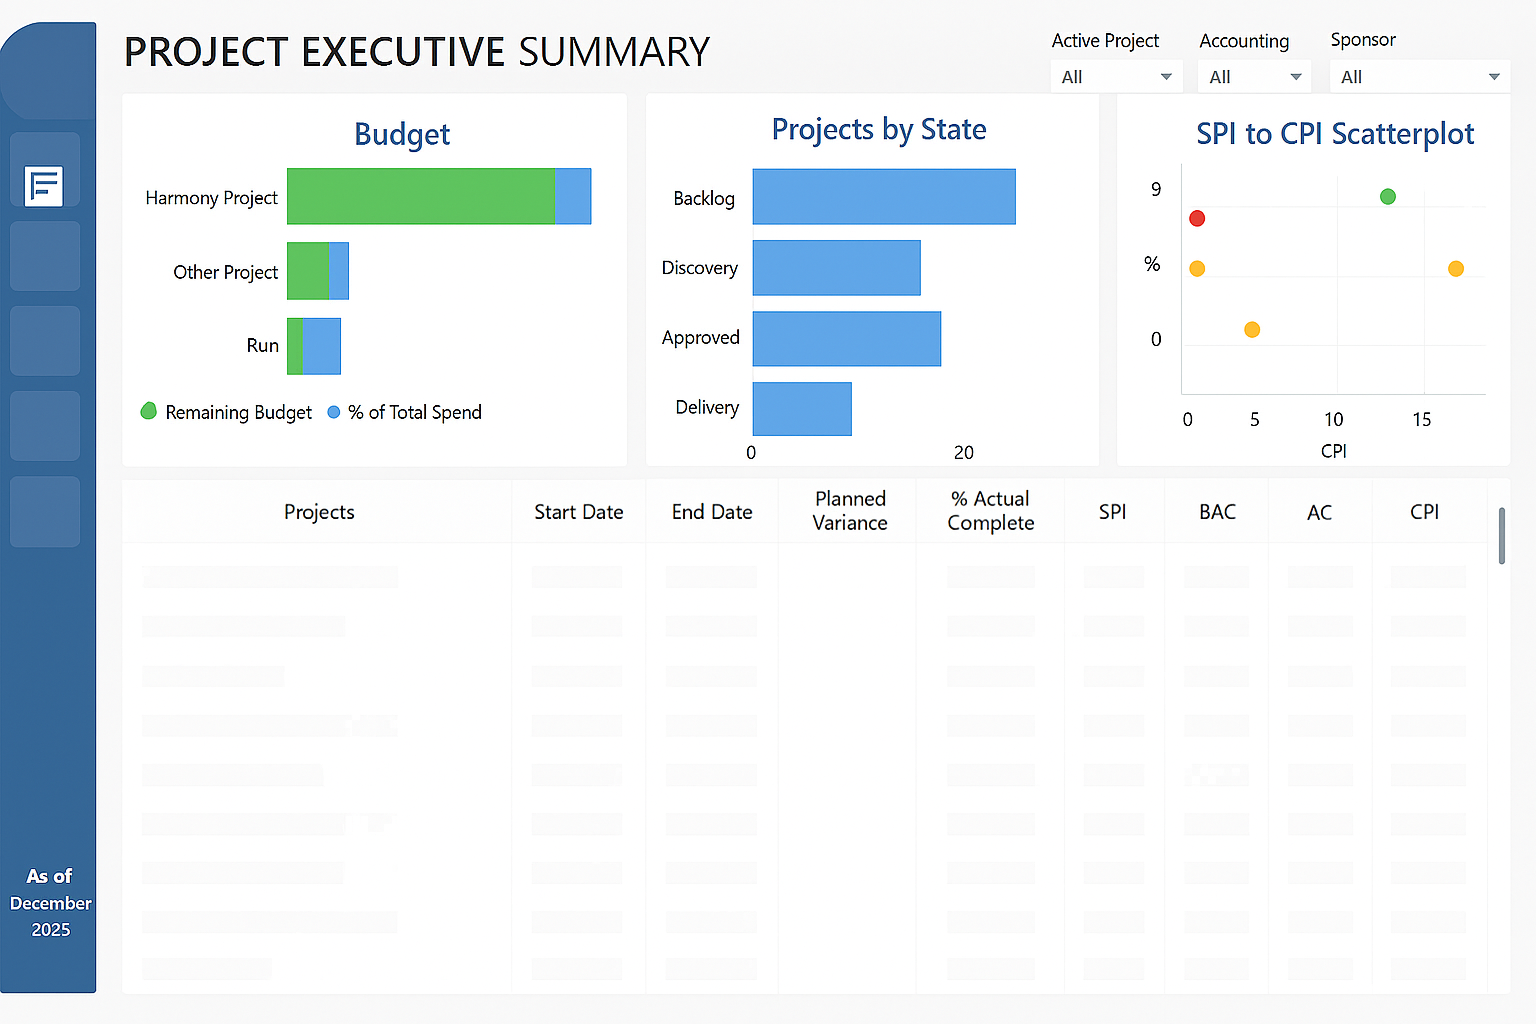
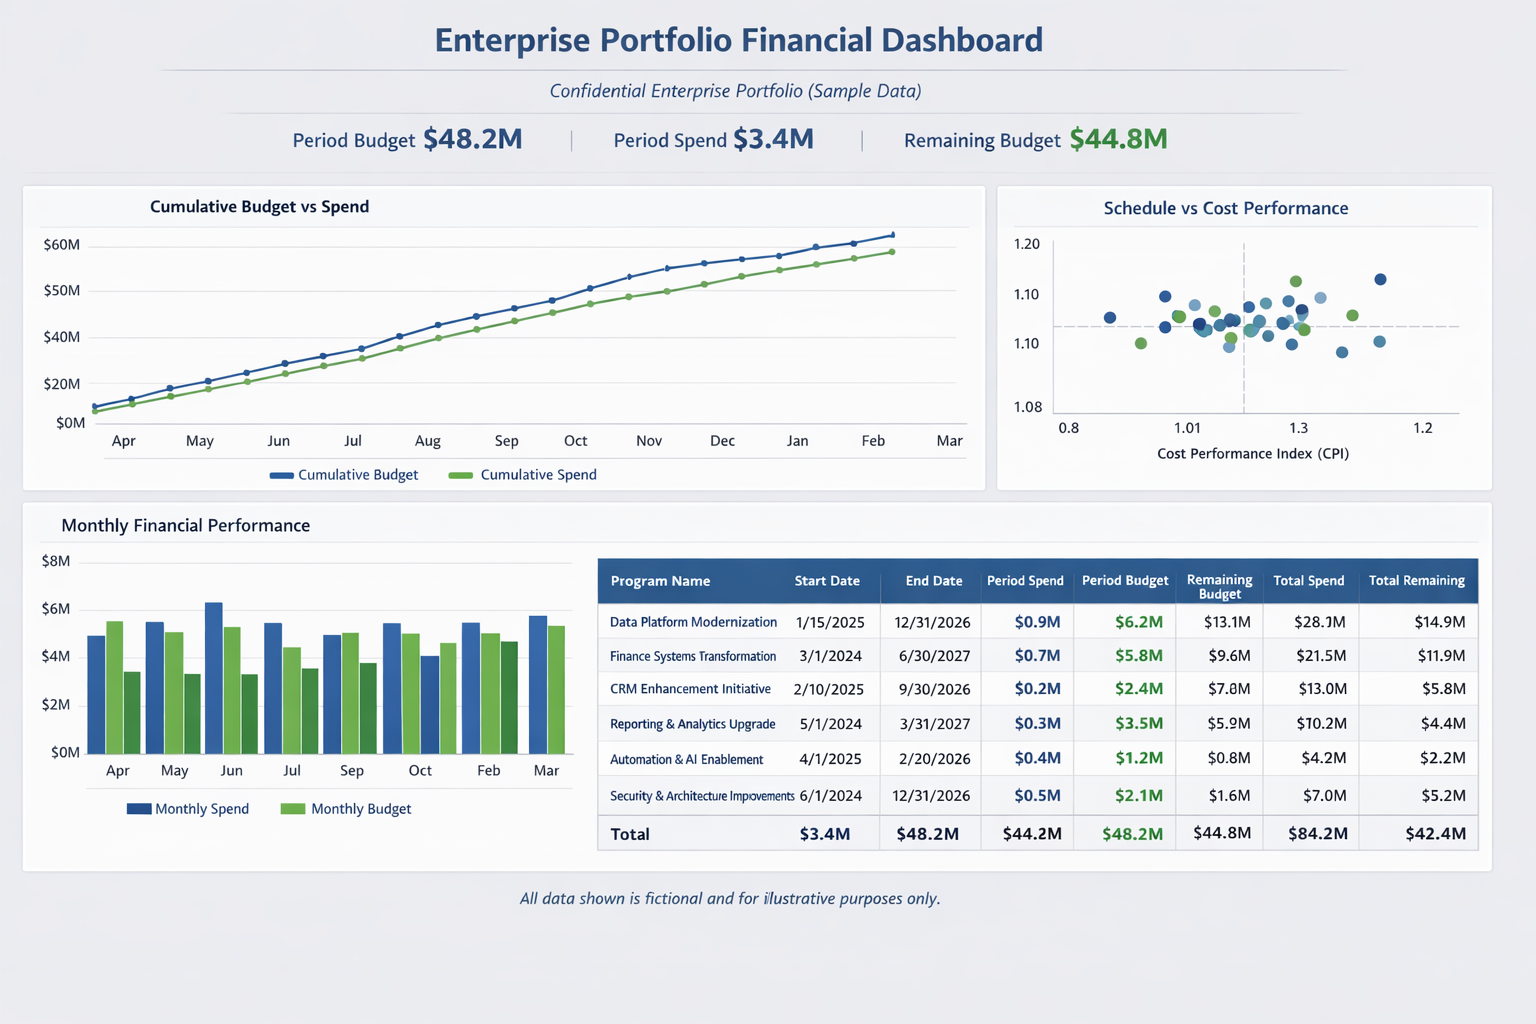
updated project3 png

diff --git a/index.html b/index.html
@@ -75,7 +75,7 @@
     <div class="container">
       <img src="avatar.jpg" alt="Avatar" class="avatar">
       <h1>Hi, I’m Sean.</h1>
-      <p>I design analytics and reporting tools that help music industry leaders make faster, smarter decisions. From catalog analytics to business transformation reporting, I turn complex datasets and fragmented data sources into clear guidance for Finance, A&R, Ops, Transformation, and IT teams.</p>
+      <p>I design analytics and reporting tools that help music industry leaders make faster, smarter decisions. From catalog analytics to business transformation reporting, I turn complex datasets and fragmented data sources into clear guidance for Finance, IT, Global Transformation, A&R and Admin teams.</p>
       <p>I currently develop executive reporting at Sony Music Publishing, and create analytics tools that surface company growth and performance insights. I’m passionate about using data and AI to support creative, operational, and strategic decision-making in music.</p>
       <div class="social-icons">
         <div class="icon-wrapper"><a href="https://linkedin.com/in/seanhsjung" target="_blank"><ion-icon name="logo-linkedin"></ion-icon></a><div class="icon-label">LinkedIn</div></div>
@@ -97,7 +97,7 @@
         <h3>Sr. Accountant (BI & Analytics) – Sony Music Publishing</h3>
         <p><em>August 2025 – Present</em></p>
         <p><strong>Problem:</strong> Senior leadership lacked unified visibility into transformation initiative performance.</p>
-        <p><strong>Solution:</strong> Developed an executive transformation dashboard that integrates budget vs. actuals, earned value KPIs, and project delivery data across IT, Finance, and Business Transformation teams.</p>
+        <p><strong>Solution:</strong> Developed an executive transformation dashboard that integrates budget vs. actuals, and project delivery data across Finance, IT and Business Transformation teams.</p>
         <p><strong>Impact:</strong> Provided leadership with decision-ready insights that improve strategic planning, resource allocation, and prioritization of company-wide transformation initiatives.</p>
       </li>
 
@@ -160,9 +160,9 @@
         <div class="project-content">
           <h3>Transformation Portfolio Exec Summary</h3>
           <p><strong>Business Need:</strong> Senior leadership needed unified visibility into the performance, budget, and risk profile of company-wide transformation initiatives.</p>
-          <p><strong>Solution:</strong> Developed an enterprise Power BI dashboard integrating financial, operational, and project management data, including budget vs. actuals, forecasted spend, earned value KPIs, and delivery status.</p>
+          <p><strong>Solution:</strong> Developed an enterprise Power BI dashboard integrating financial, operational, and project management data, including budget vs. actuals, cost variance, and delivery status.</p>
           <p><strong>Outcome:</strong> Provided a decision-ready view of initiative health, enabling improved strategic planning, resource allocation, and prioritization.</p>
-          <small class="confidential-note">*Screenshot anonymized to protect internal data.*</small>
+          <small class="confidential-note">*Screenshot anonymized to protect company financials.*</small>
         </div>
       </div>
 